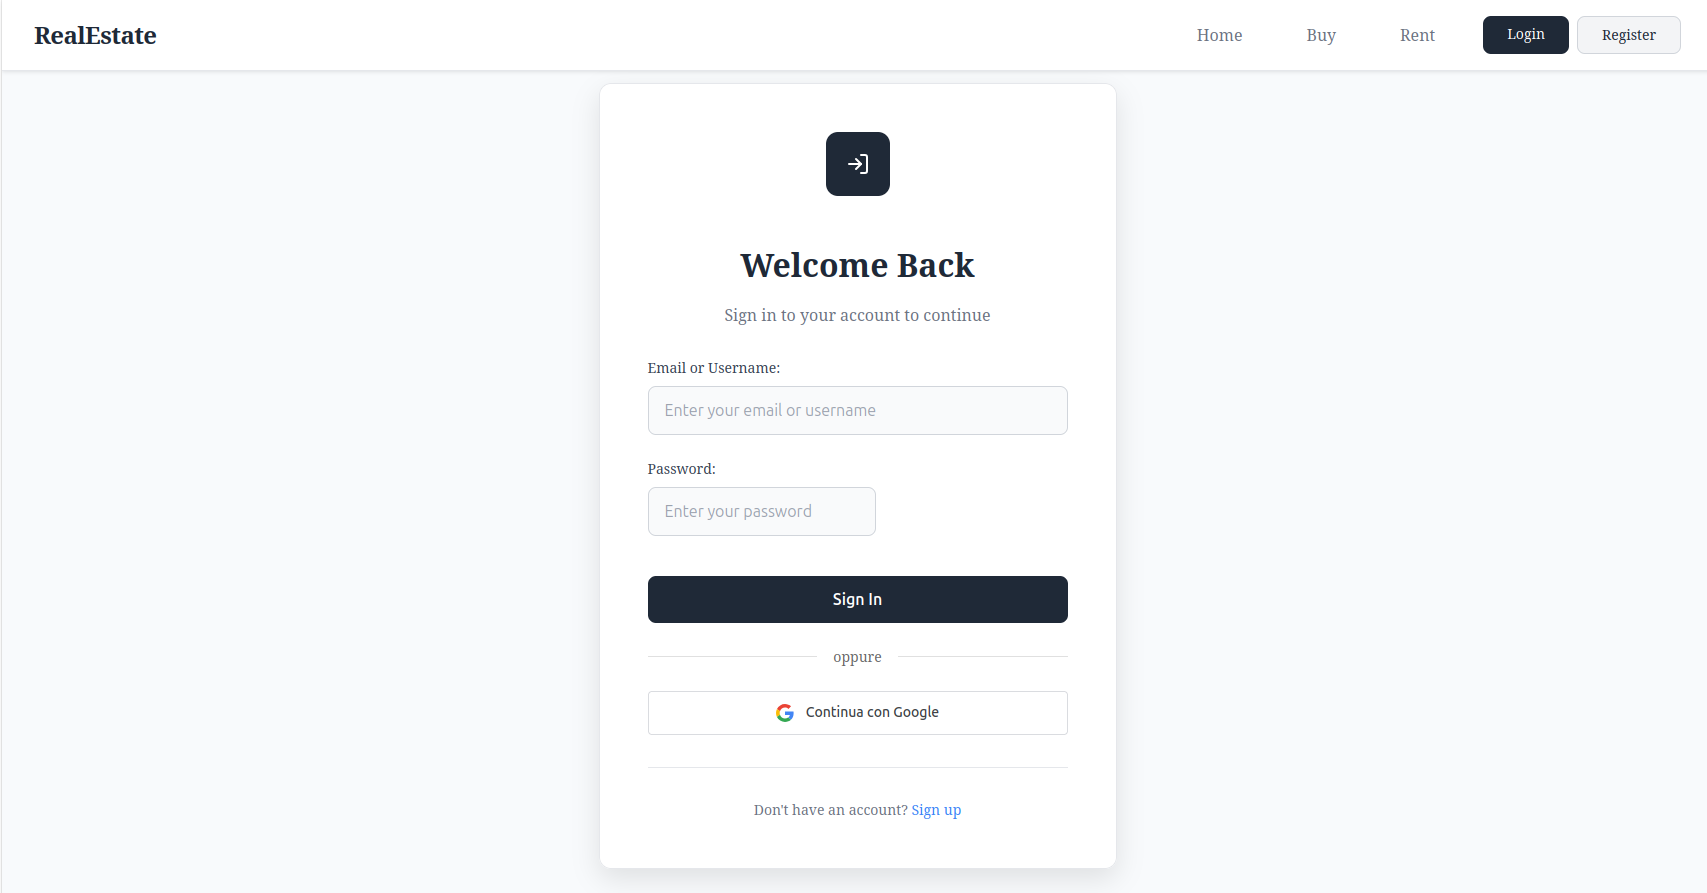
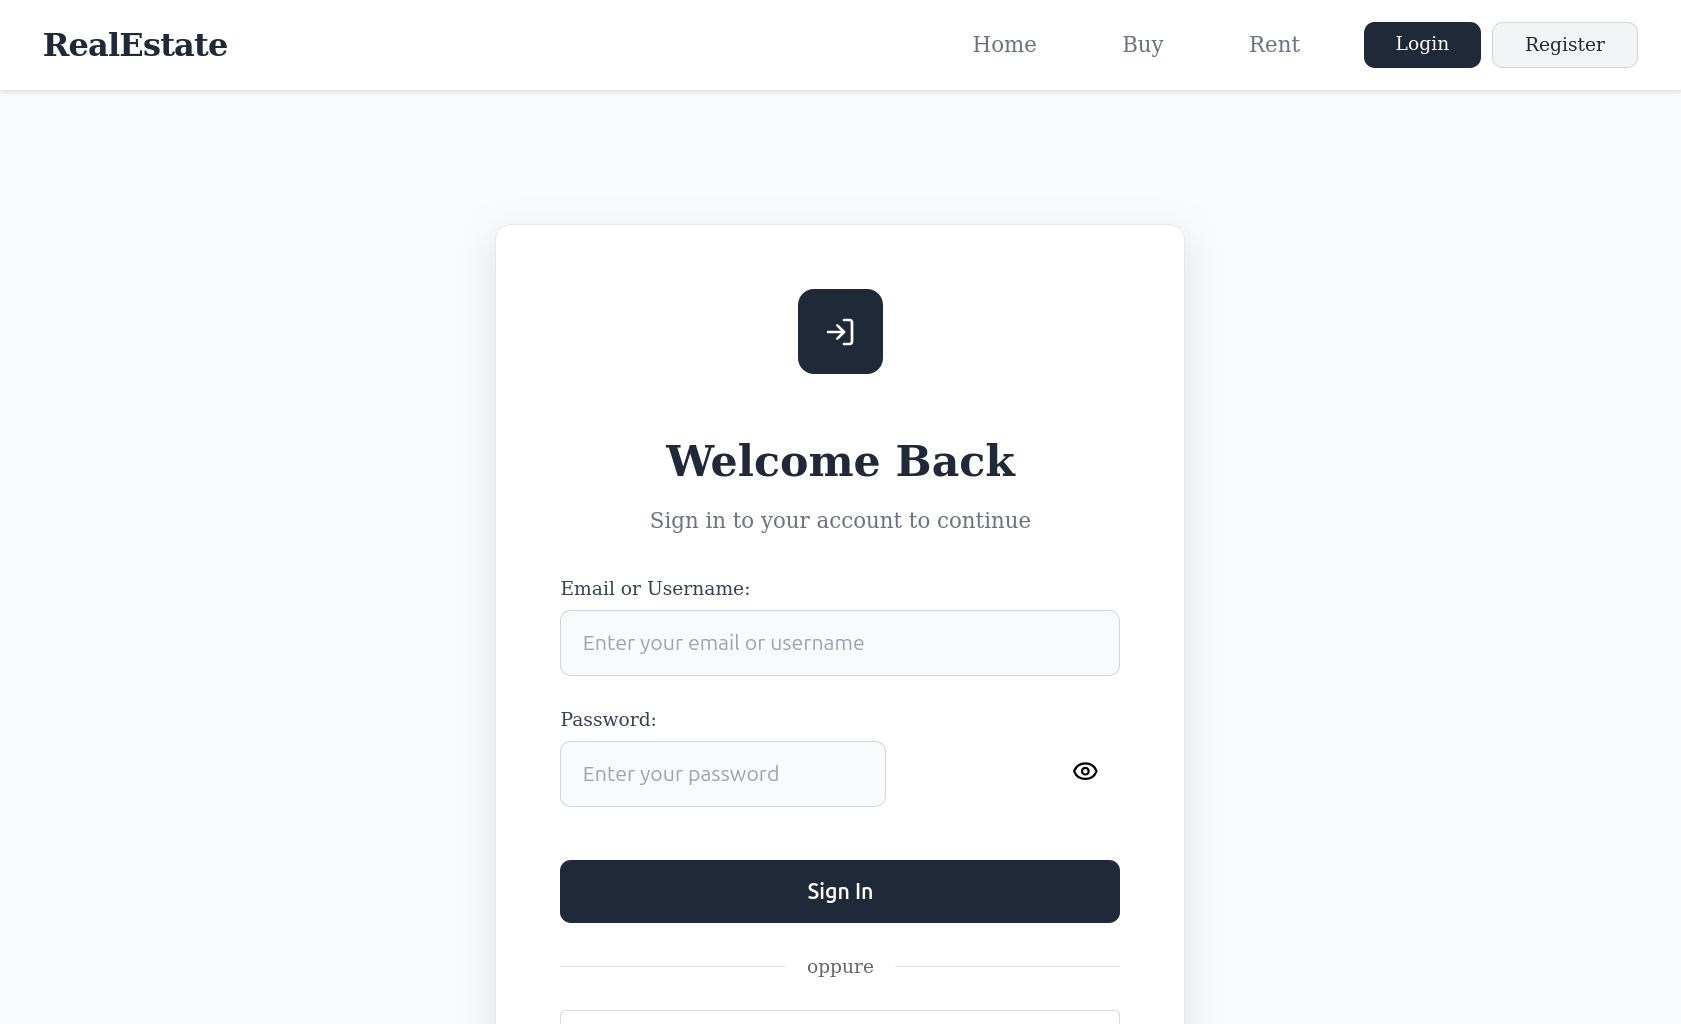
aggiunte immagini mockup password admin

diff --git a/Capitoli/Capitolo 1.tex b/Capitoli/Capitolo 1.tex
@@ -78,6 +78,30 @@ Di seguito sono riportati i mock-up delle principali schermate dell'applicazione
      \label{fig:M1}
  \end{figure}
  
+\begin{figure}[H]
+    \centering
+    \includegraphics[width=0.8\textwidth]{images/M2password}
+    \caption{Mock-up M2: Mostra notifica cambio password (admin)}
+    \label{fig:M2}
+\end{figure}
+
+\begin{figure}[H]
+    \centering
+    \includegraphics[width=0.8\textwidth]{images/M3password}
+    \caption{Mock-up M4: Pagina cambia password (admin)}
+    \label{fig:M3}
+\end{figure}
+
+\begin{figure}[H]
+    \centering
+    \includegraphics[width=0.8\textwidth]{images/M4password}
+    \caption{Mock-up M5: Modifica confermata (admin)}
+    \label{fig:M4}
+\end{figure}
+
+
+
+
 \section{Formalizzazione dei Casi d'Uso Significativi}
 
 \subsection{Caso d'Uso: Cambio Password (Admin) }

diff --git a/main.tex b/main.tex
@@ -92,5 +92,4 @@
 % Output 4: Testing
 \include{Capitoli/Capitolo 4}
 
-
 \end{document}
